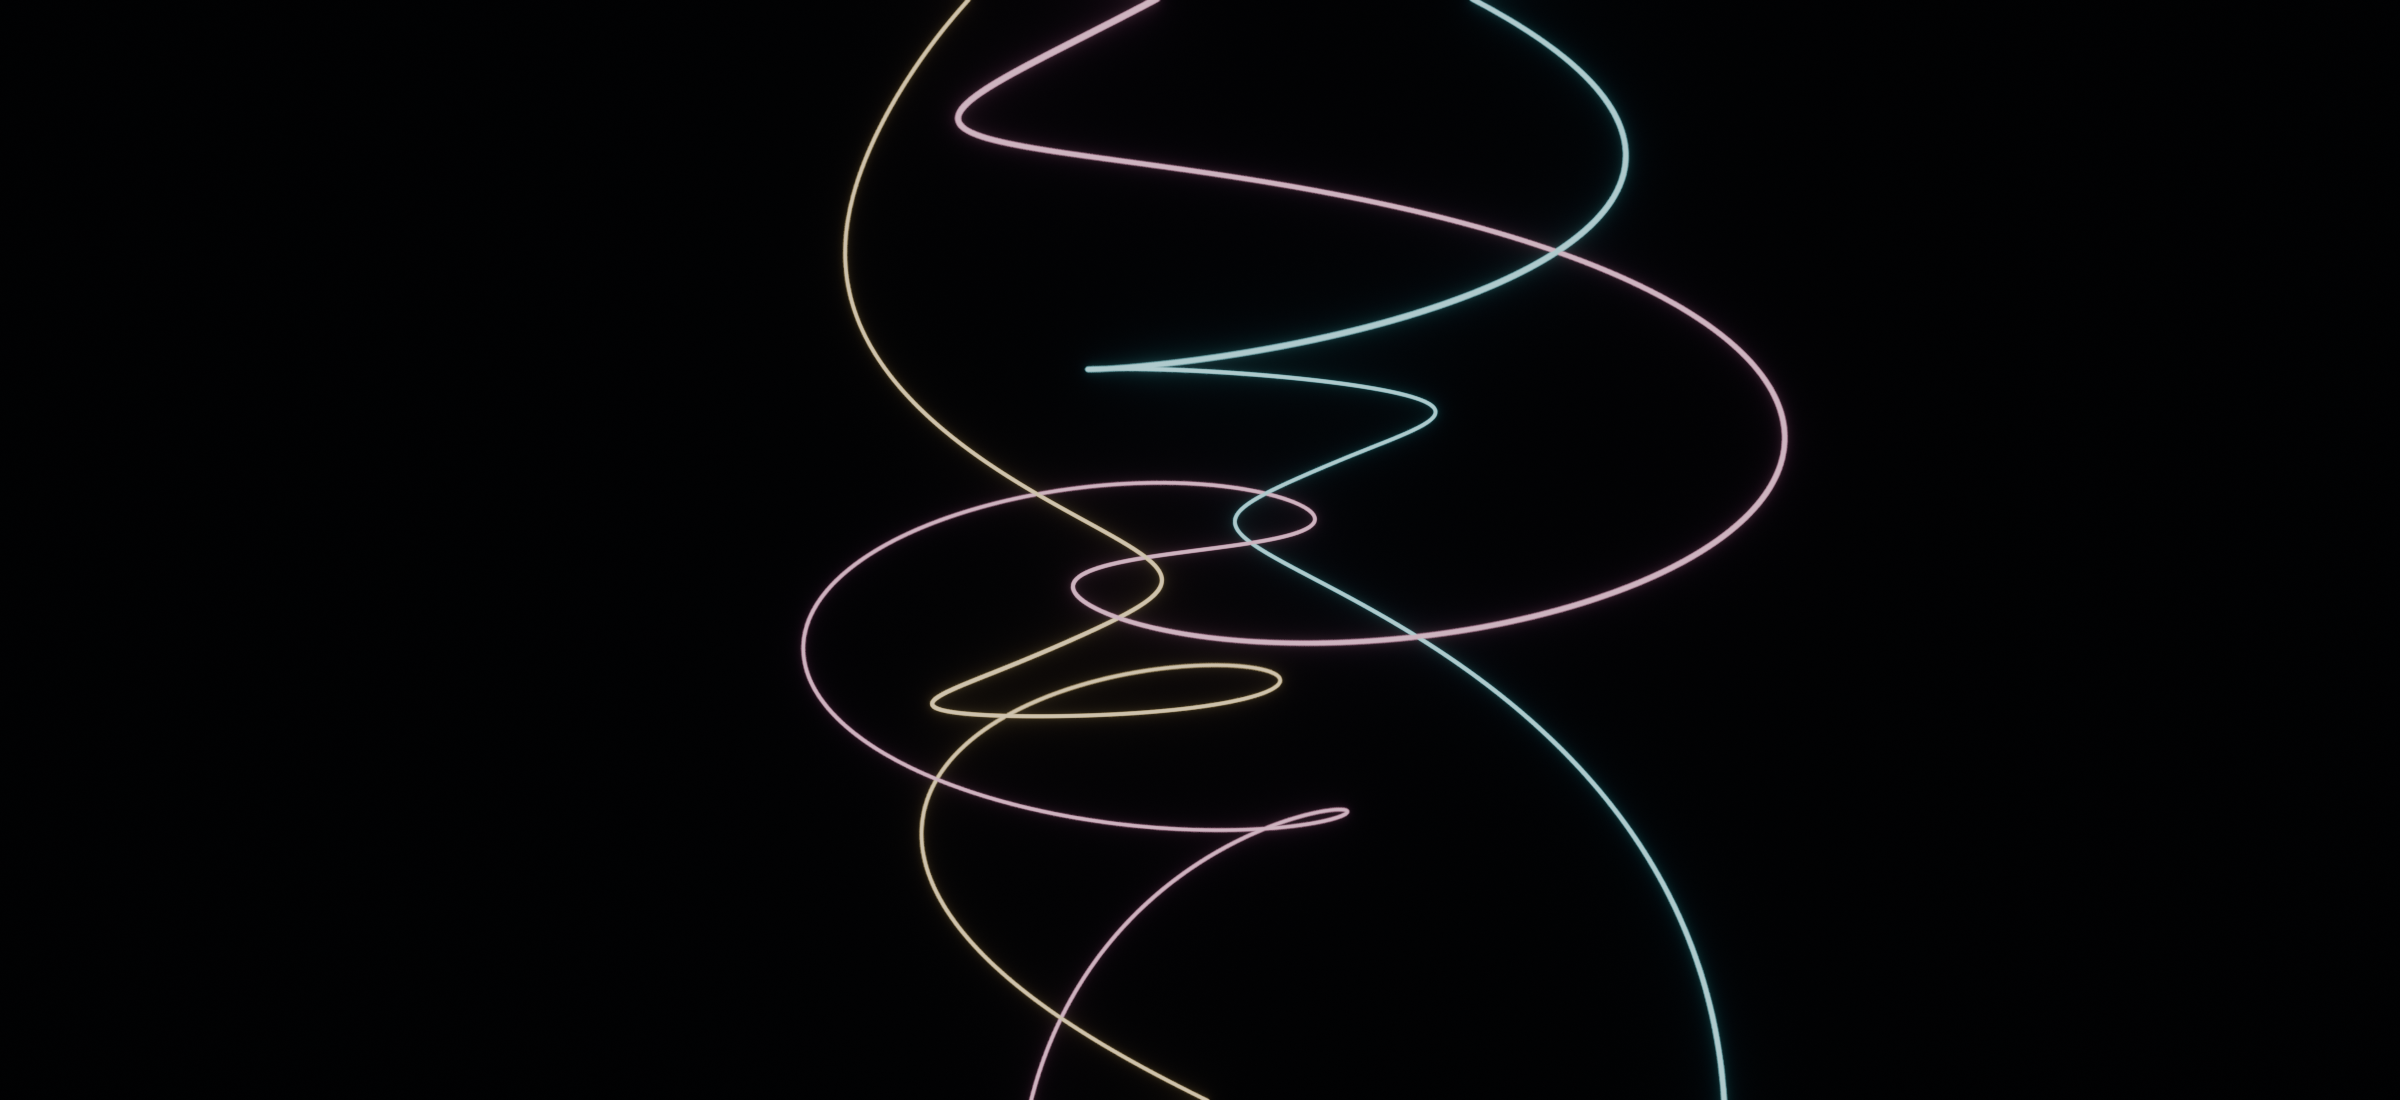
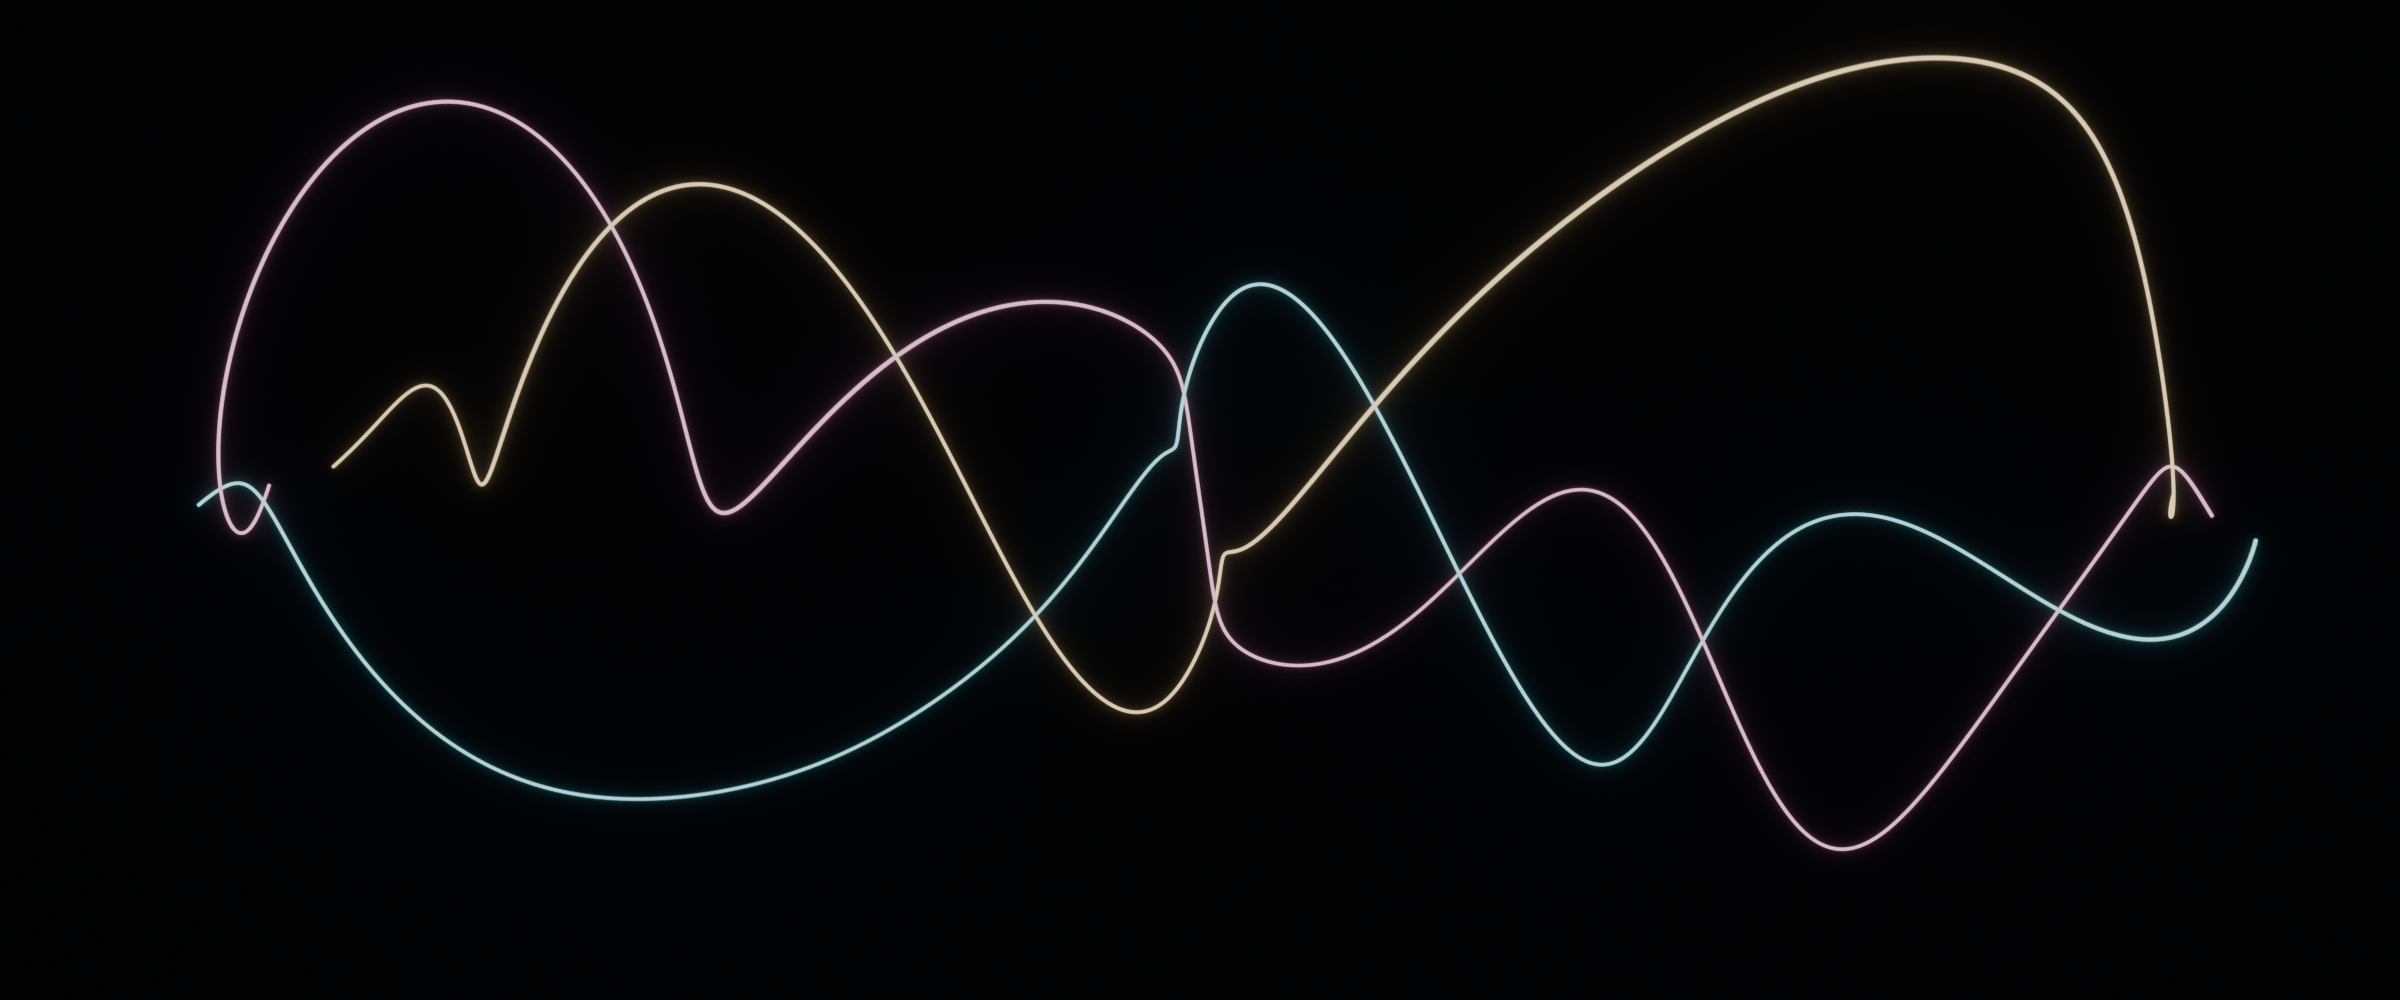
Update viz: hero_orbit.py, hero_orbit_14.png

diff --git a/viz/threebody/blender/hero_orbit.py b/viz/threebody/blender/hero_orbit.py
@@ -13,27 +13,27 @@ sc.view_settings.view_transform = 'AgX'; sc.view_settings.look = 'AgX - Punchy'
 w = sc.world or bpy.data.worlds.new("W"); sc.world = w
 w.node_tree.nodes["Background"].inputs[0].default_value = (0.006, 0.007, 0.010, 1); w.node_tree.nodes["Background"].inputs[1].default_value = 1.0
 cols = [(0.31, 0.82, 0.88), (0.91, 0.71, 0.36), (0.88, 0.42, 0.62)]
-depth = 11.0
+depth = 16.0
 for b in range(3):
     cu = bpy.data.curves.new(f"body{b}", 'CURVE'); cu.dimensions = '3D'
     sp = cu.splines.new('POLY'); sp.points.add(n - 1)
     flat = []
     for i, p in enumerate(xy):
-        x, y = p[b]; z = (i / (n - 1) - 0.5) * depth
-        flat += [x * 1.6, y * 1.6, z, 1.0]
+        x, y = p[b]; t = (i / (n - 1) - 0.5) * depth
+        flat += [t, x * 1.25, y * 1.25, 1.0]   # time runs left to right
     sp.points.foreach_set('co', flat)
-    cu.bevel_depth = 0.011; cu.bevel_resolution = 3
+    cu.bevel_depth = 0.013; cu.bevel_resolution = 3
     ob = bpy.data.objects.new(f"body{b}", cu); sc.collection.objects.link(ob)
     m = bpy.data.materials.new(f"m{b}")
     nt = m.node_tree; nt.nodes.clear()
-    em = nt.nodes.new("ShaderNodeEmission"); em.inputs[0].default_value = (*cols[b], 1); em.inputs[1].default_value = 2.2
+    em = nt.nodes.new("ShaderNodeEmission"); em.inputs[0].default_value = (*cols[b], 1); em.inputs[1].default_value = 2.8
     mo = nt.nodes.new("ShaderNodeOutputMaterial"); nt.links.new(em.outputs[0], mo.inputs[0])
     ob.data.materials.append(m)
 # faint time axis
-cam_d = bpy.data.cameras.new("Cam"); cam_d.lens = 46
+cam_d = bpy.data.cameras.new("Cam"); cam_d.lens = 40
 cam_d.dof.use_dof = True; cam_d.dof.aperture_fstop = 3.2
 cam = bpy.data.objects.new("Cam", cam_d); sc.collection.objects.link(cam); sc.camera = cam
-cam.location = (11.5, -14.5, 6.2)
+cam.location = (2.5, -21.5, 3.0)
 tgt = bpy.data.objects.new("T", None); sc.collection.objects.link(tgt); tgt.location = (0, 0, 0)
 c = cam.constraints.new('TRACK_TO'); c.target = tgt; c.track_axis = 'TRACK_NEGATIVE_Z'; c.up_axis = 'UP_Y'
 cam_d.dof.focus_object = tgt
